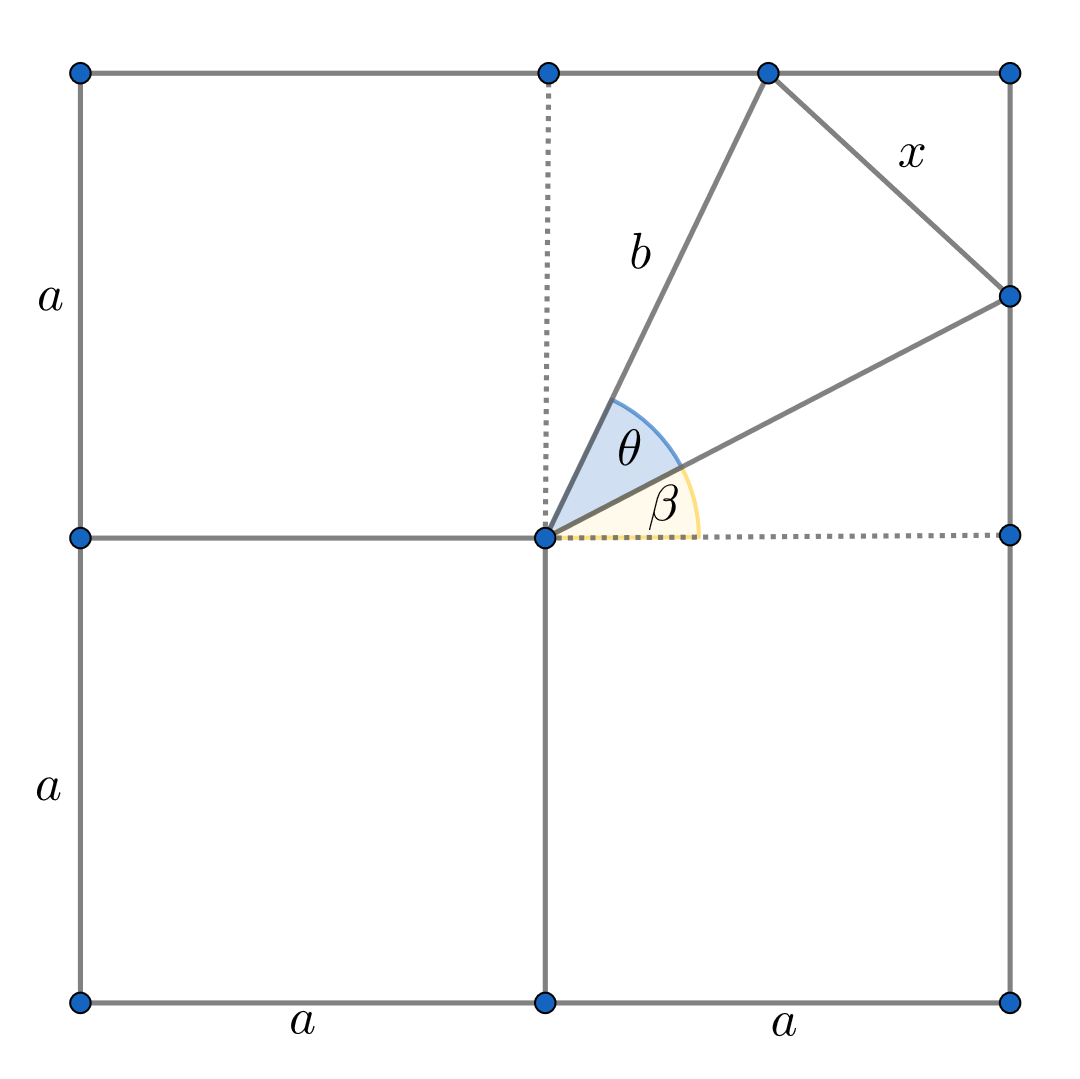
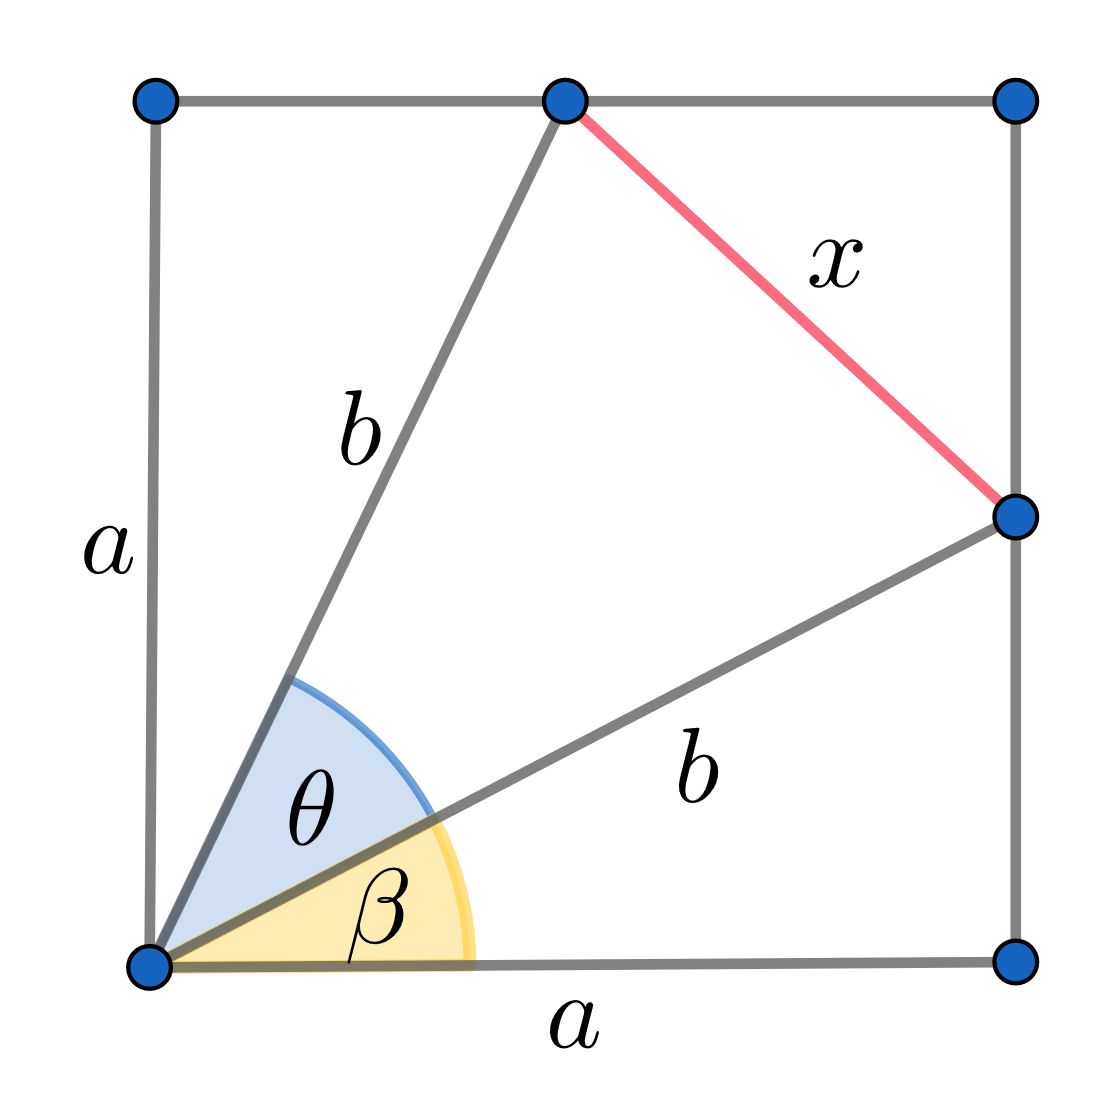
Update triangle problem images

diff --git a/README.md b/README.md
@@ -17,7 +17,7 @@ Consider a circle of radius one centered at the origin of a complex plane. Given
 ## The Triangle Problem
 
 <p align="center">
-  <img width="400" height="400" src="triangle_problem/img/statement.png">
+  <img src="triangle_problem/img/statement.gif">
 </p>
 
 Find the value of $x$ given $\theta \in (0, \frac{\pi}{2}]$ and $a \in \mathbb{R}^{+}$

diff --git a/triangle_problem/triangle_problem.md b/triangle_problem/triangle_problem.md
@@ -3,7 +3,7 @@
 ## Statement
 
 <p align="center">
-  <img width="400" height="400" src="img/statement.png">
+  <img src="img/statement.gif">
 </p>
 
 Find the value of $x$ given $\theta \in (0, \frac{\pi}{2}]$ and $a \in \mathbb{R}^{+}$
